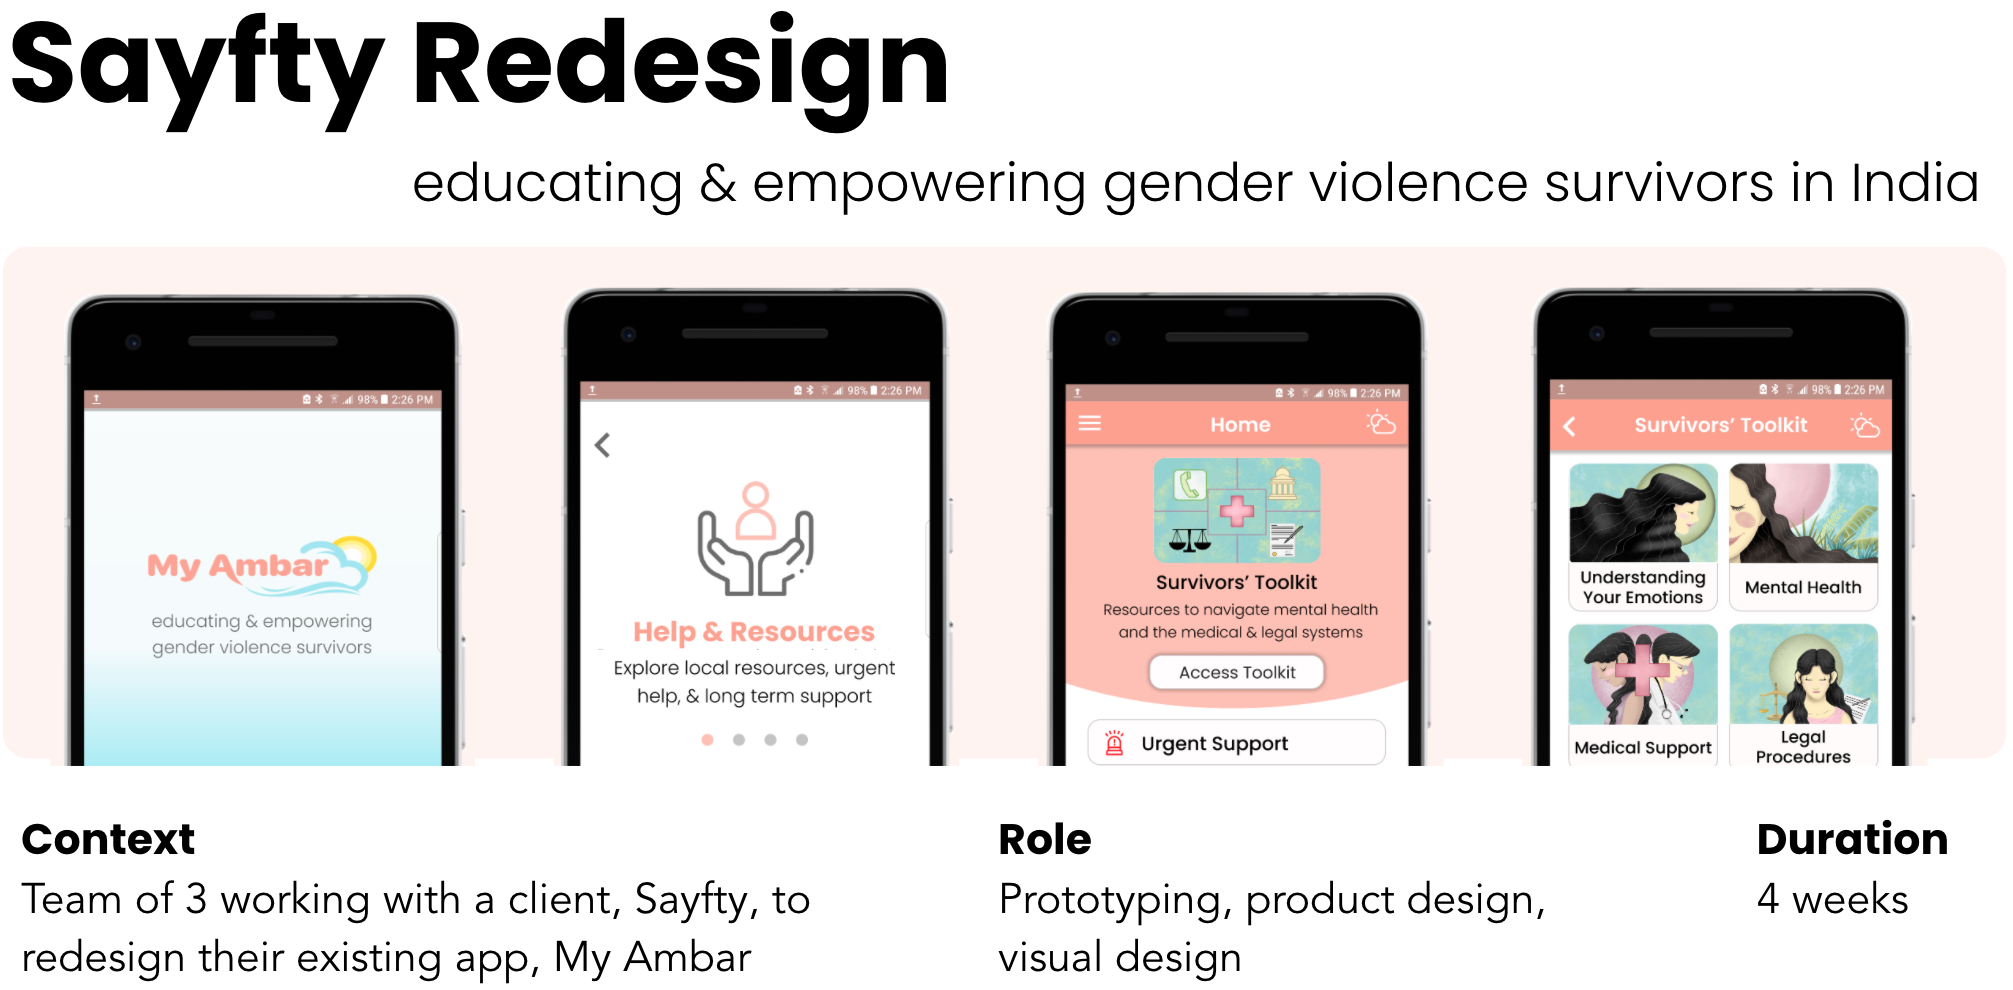
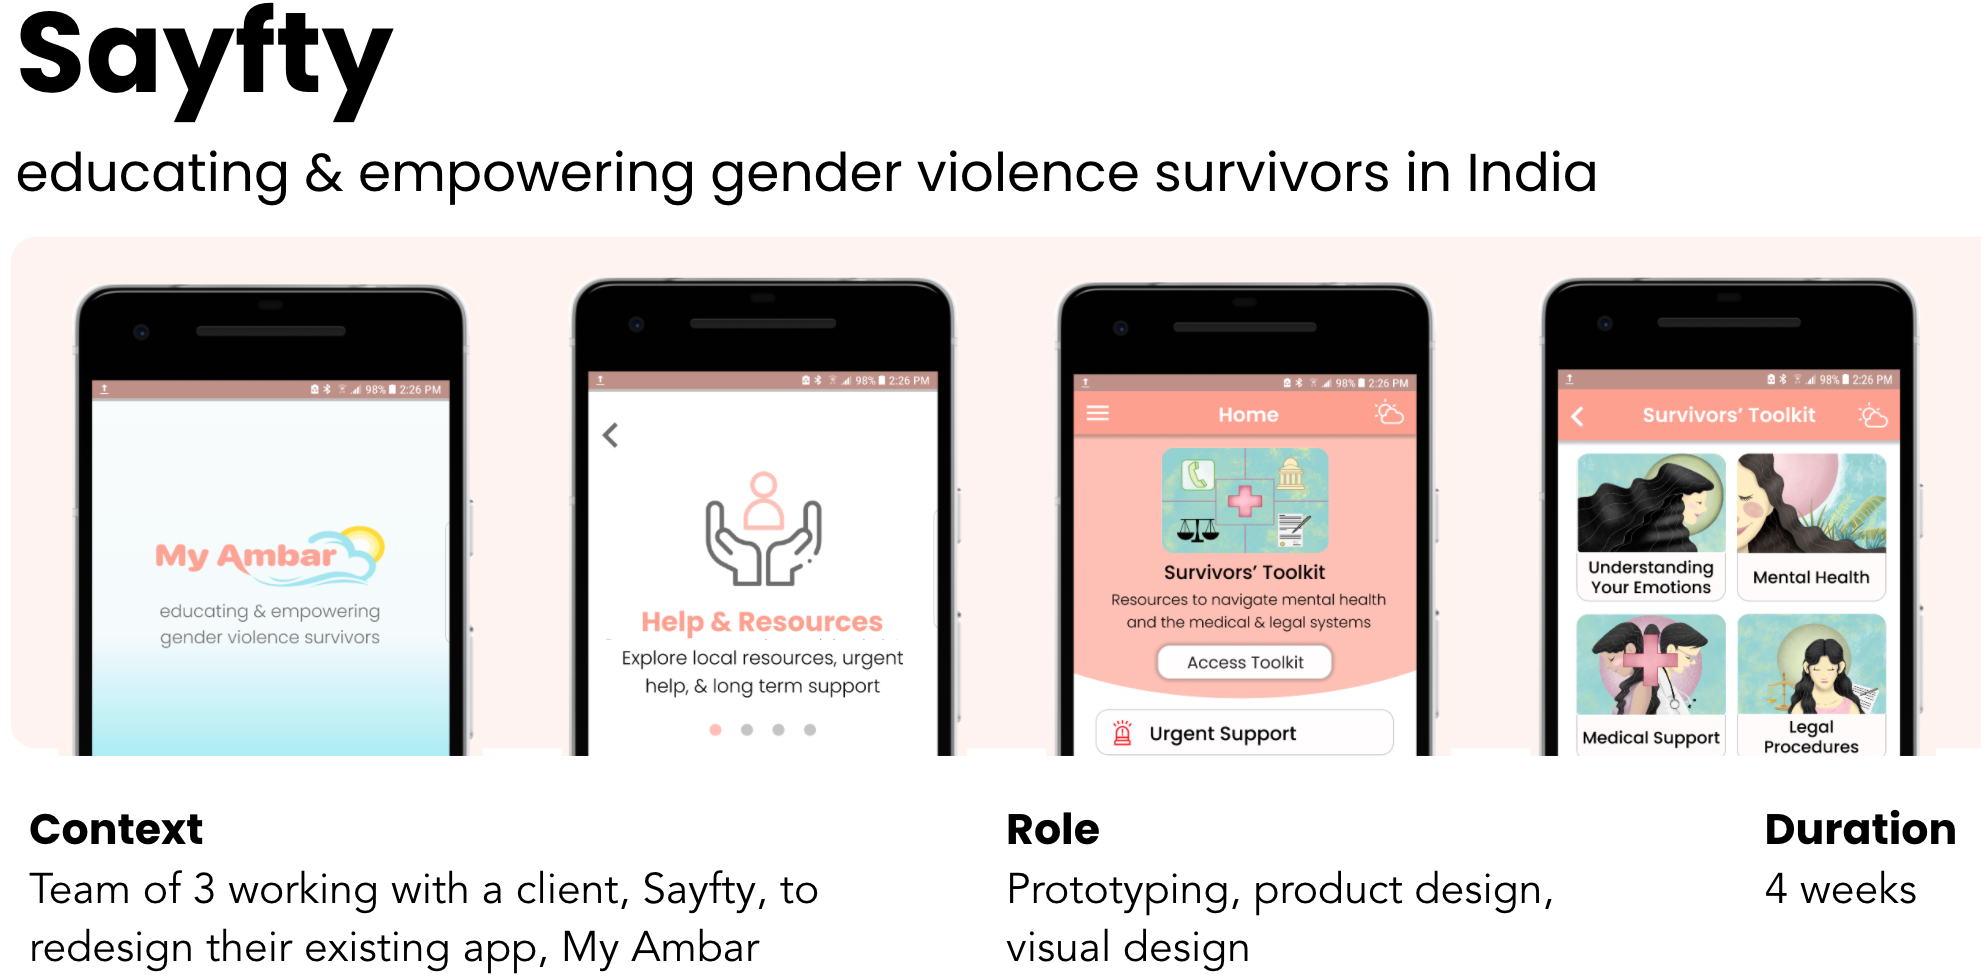
no more redesign

diff --git a/sayfty.html b/sayfty.html
@@ -172,11 +172,12 @@ We learned from user tests that we needed visual hierarchy on the home screen. W
 <p class="e" id = "subtitle">
 Along with the home screen and toolkit page, we also updated the onboarding process and added a meditiation feature for users who may feel overwhelmed using the app. You can view our final Figma <a href="https://www.figma.com/proto/ys8TzXq88t3fEfx4QnlhvT/Sayfty-Final?node-id=72%3A1&scaling=scale-down" style="color:#2678E3"target="_blank">prototype here. </a></p>
 
-<br><br><br></p>
-    <span style="float:left;"><a class  style = "text-align: left"; href="joinIn">< joinIn</a> </span><span style="float:right;"><a class="nav-link1" style = "text-align: right"; href="label">Privacy & Security Label > </a></span>
-                
-<br>
-                           
+<br></p>
+ 
+   <a class="nav-link" style = "text-align: right"; href="sayfty">next project - joinIn > </a>
+
+   
+                    
  
                              
                          

diff --git a/design.html b/design.html
@@ -102,8 +102,8 @@
         <div class = "row">
           <!-- project1 -->
             <div class = "col-lg-4 mx-auto" >
-        <a href = "joinIn">
-                <img id="myImg" src="img/joinInTitle.png" alt="joinIn" data-toggle="modal" data-target="#athena" style="width:100%;">
+        <a href = "sayfty">
+                <img id="myImg" src="img/sayftyTitle.png" alt="Sayfty" data-toggle="modal" data-target="#athena" style="width:100%;">
 
                       
              
@@ -119,9 +119,9 @@
            <div class = "col-lg-4 mx-auto">
 
              
-              <a href = "sayfty">
+              <a href = "joinIn">
 
-              <img id="myImg" src="img/sayftyTitle.png" alt="Sayfty" data-toggle="modal" data-target="#ant" style="width:100%;"></a>
+              <img id="myImg" src="img/joinInTitle.png" alt="joinIn" data-toggle="modal" data-target="#ant" style="width:100%;"></a>
 
                      
           </div>  

diff --git a/joinIn.html b/joinIn.html
@@ -240,9 +240,10 @@ Icons from Flaticon &  Freepik
 <br><br>
 
  
-   <a class="nav-link" style = "text-align: right"; href="sayfty">Sayfty Redesign > </a>
+ <span style="float:left;"><a class  style = "text-align: left"; href="joinIn">< previous project - Sayfty</a> </span><span style="float:right;"><a class="nav-link1" style = "text-align: right"; href="label">next project - Privacy & Security Label > </a></span>
+                
 
-                             
+                   <br>          
                        
                  
                 </div>

diff --git a/label.html b/label.html
@@ -205,7 +205,7 @@ I kept the webpage clean and monochromatic to match the label. You can interact 
                  <br>
                 </div>
               <br><br>
-              <a class="nav-link" style = "text-align: left"; href="sayfty"><  Sayfty Redesign</a>
+              <a class="nav-link" style = "text-align: left"; href="sayfty"><  previous project - Sayfty</a>
                
 <br>
               </div>        
